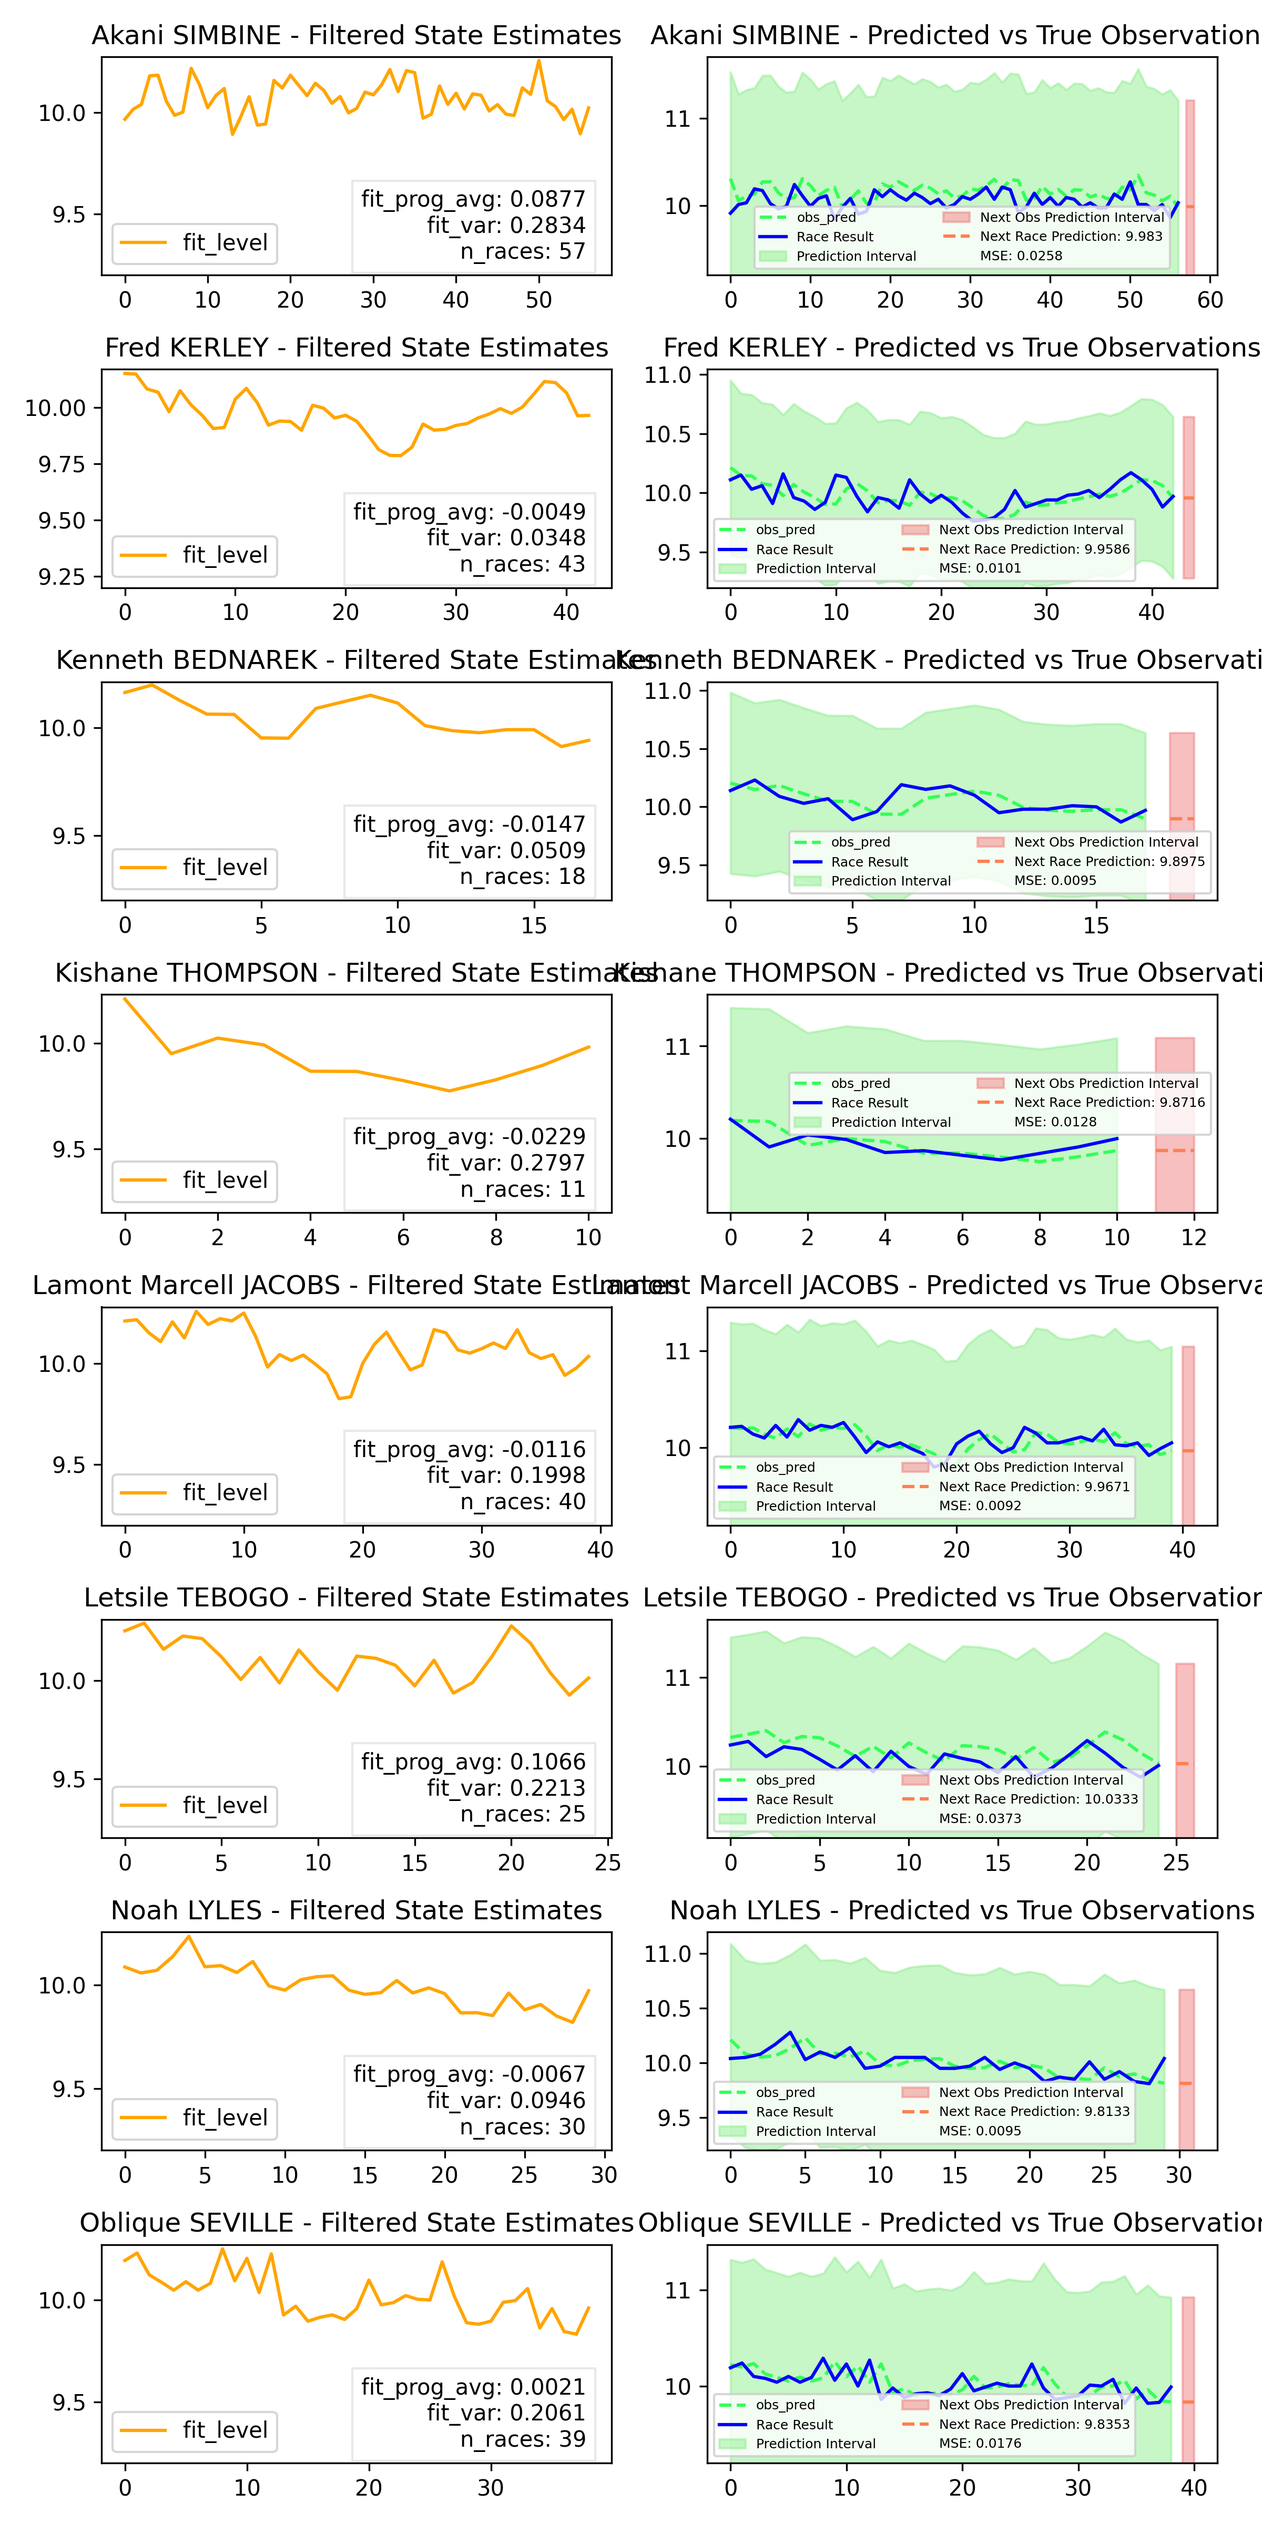
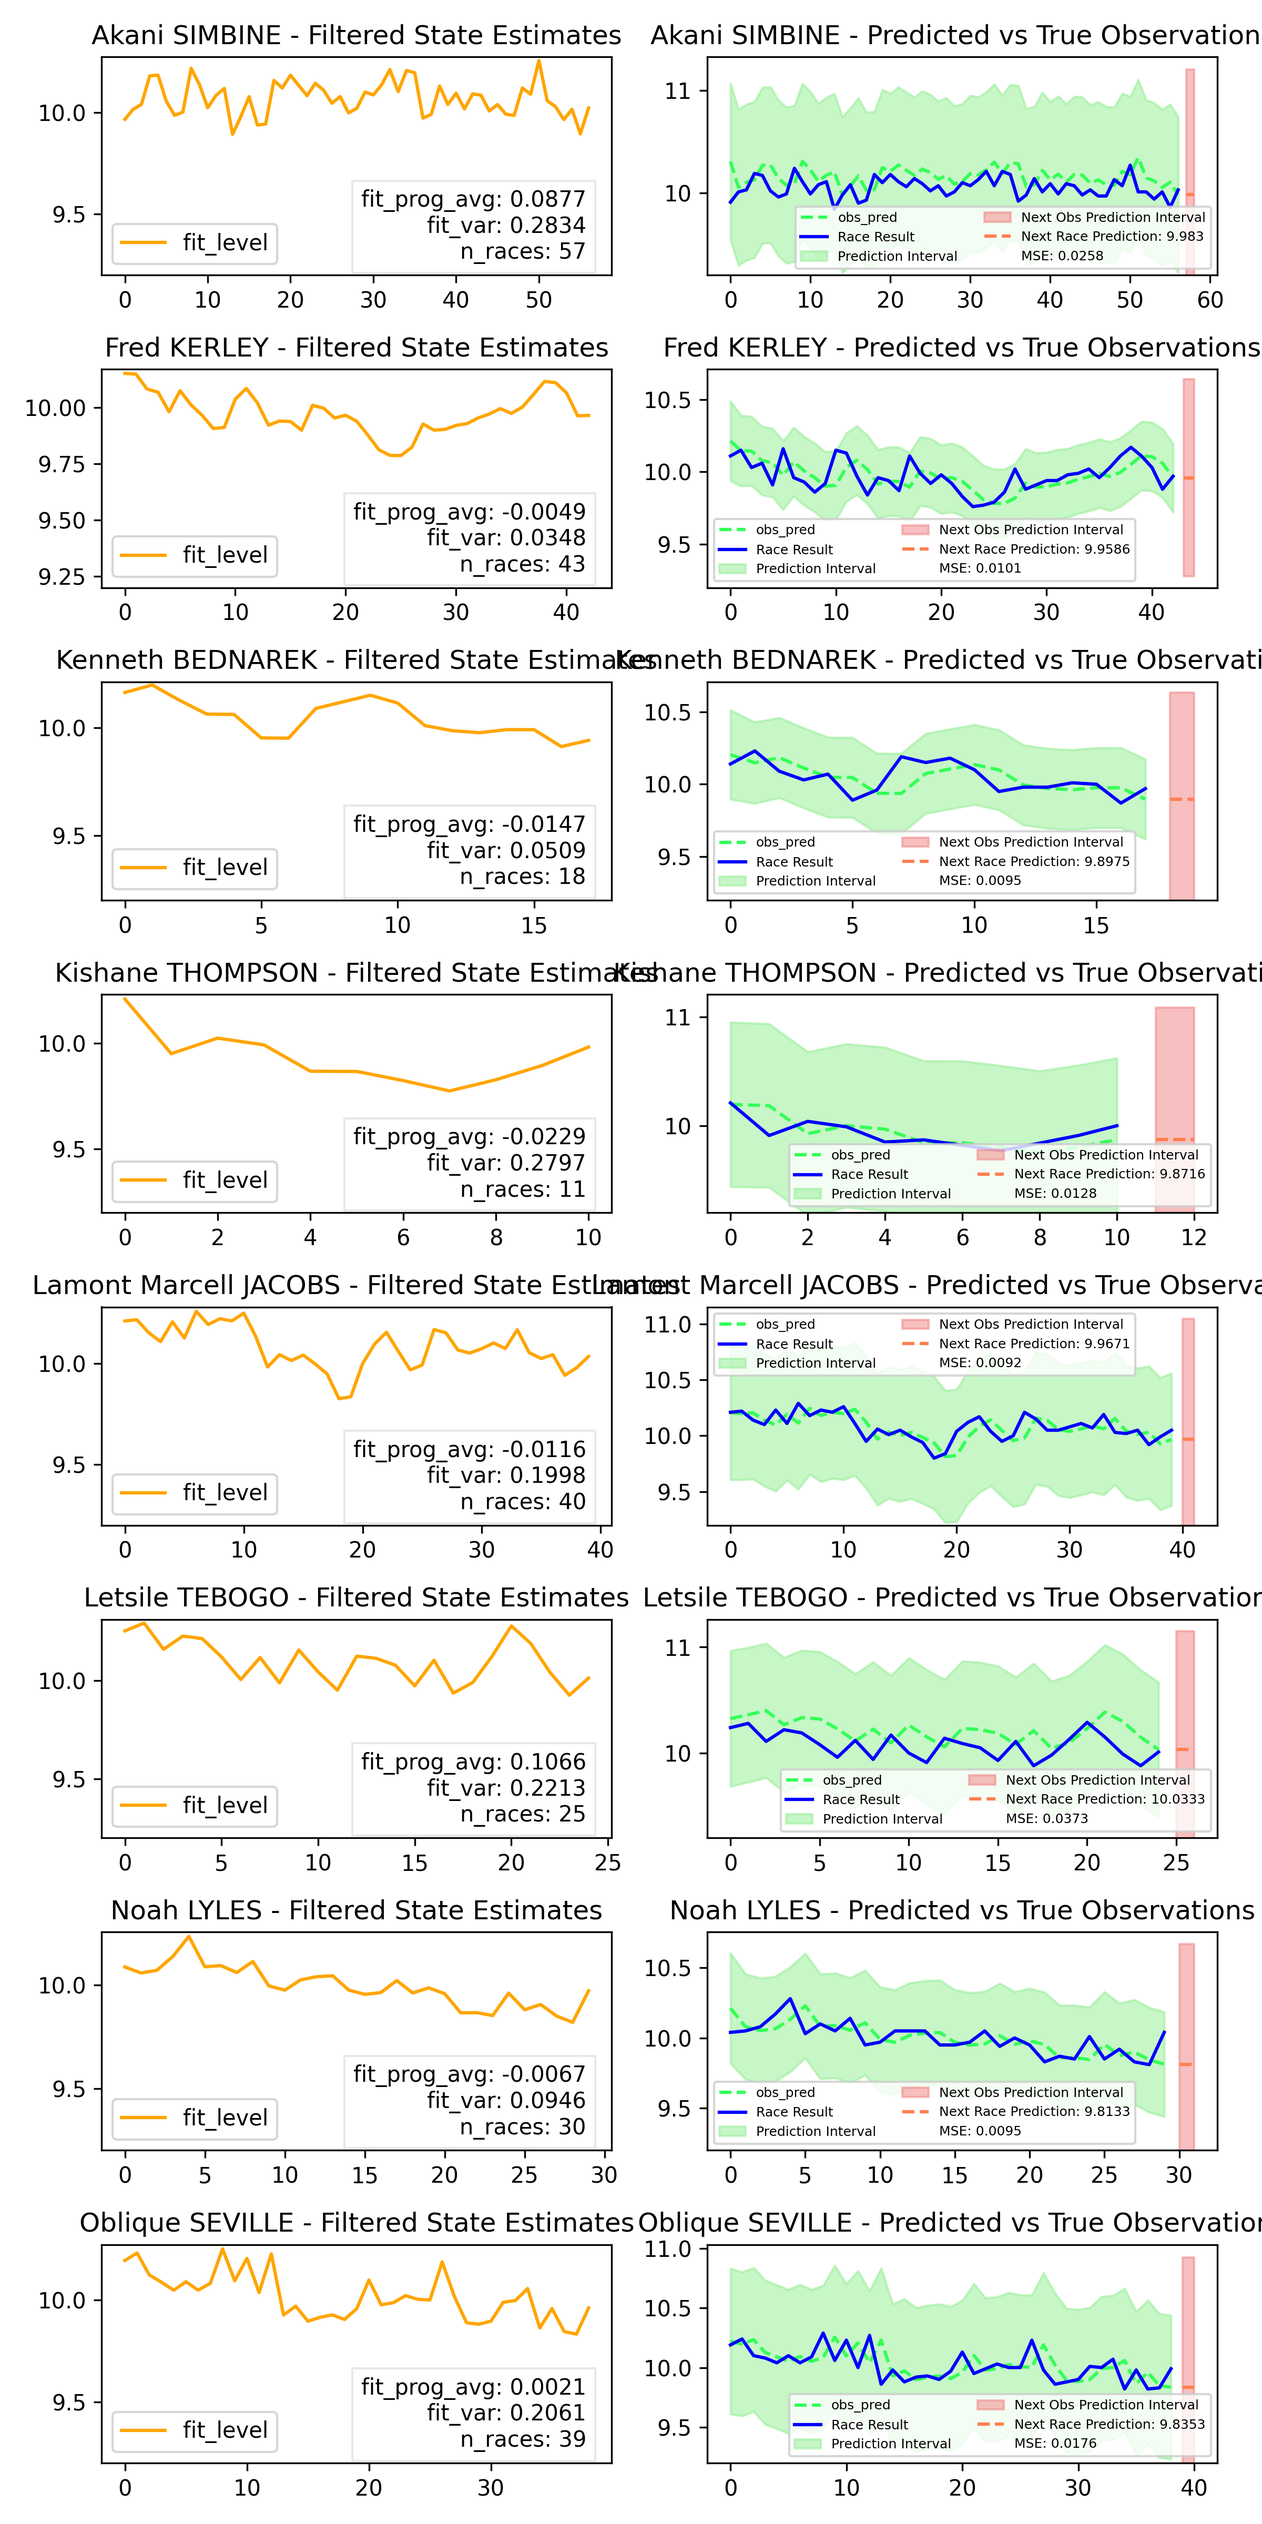
patch for parameter glitch and new associated plots. First m3

diff --git a/run_m3.py b/run_m3.py
@@ -1,0 +1,126 @@
+
+import pandas as pd
+import numpy as np
+pd.set_option('display.max_columns', None)
+from datetime import datetime
+import tensorflow as tf
+import tensorflow_probability as tfp
+tfd = tfp.distributions
+import matplotlib.pyplot as plt
+from optimize_transmission_noise import *
+from plot_tfp_kalman_s import *
+from build_ssm import *
+from putils import *
+from add_wind_mark import *
+
+# from cmdstanpy import install_cmdstan
+# install_cmdstan(overwrite=True)
+
+from cmdstanpy import CmdStanModel
+
+
+
+df_raw = pd.read_csv('men 100m from_2020-01-01 to_2024-09-30.csv')
+
+def convert_dates(date):
+    try:
+        return pd.to_datetime(date, format='%d %b %Y')
+    except ValueError:
+        return pd.to_datetime(date, format='%Y', errors='coerce')  
+      
+df_raw['DOB'] = df_raw['DOB'].apply(convert_dates)
+df_raw['Date'] = df_raw['Date'].apply(convert_dates)
+
+# Analysis      
+avg_std = df_raw.groupby(['Competitor', df_raw['Date'].dt.year])['Mark'].std().mean().round(4)
+mean_std = df_raw.groupby(['Competitor', df_raw['Date'].dt.year])['Mark'].mean().mean().round(4)      
+min_seas = df_raw.groupby(['Competitor', df_raw['Date'].dt.year])['Mark'].min()          
+max_seas = df_raw.groupby(['Competitor', df_raw['Date'].dt.year])['Mark'].max() 
+seas_improvements = max_seas - min_seas
+improvement_avg = (max_seas - min_seas).mean().round(4)  
+improvement_avg = df_raw.groupby(['Competitor'])['Mark'].diff().mean()
+      
+
+# Only interested in the line-up of the 2024 olympics race
+competitors = ['Noah LYLES', 'Kishane THOMPSON', 'Fred KERLEY', 
+              'Akani SIMBINE', 'Oblique SEVILLE', 
+              'Lamont Marcell JACOBS', 'Letsile TEBOGO', 'Kenneth BEDNAREK']
+date_max = pd.to_datetime('2024-08-03')
+
+df_spec = df_raw[df_raw['Date'] <= date_max]
+df_spec = df_spec[df_spec['Competitor'].isin(competitors)]
+
+df_spec = add_wind_mark(df_spec)
+
+def df_by_athlete(data):
+  data_sorted = data.sort_values(by=['Competitor', 'Date'])
+  competitor_dfs = {name: group for name, group in data_sorted.groupby('Competitor')}
+  return(competitor_dfs)
+  
+personal_df_list = df_by_athlete(df_spec)
+
+obs_true = np.array(personal_df_list['Letsile TEBOGO']['Mark_wm'])[:, np.newaxis]
+
+# Initialize data
+np.random.seed(43)
+N = len(obs_true)  # Number of time steps
+T = 1    # Number of competitors (if multiple, modify the model accordingly)
+obs_sigma = float(avg_std) # Observation noise
+y = obs_true.flatten()  # Observations
+mu_0 = float(mean_std)
+sigma_0 = 0.05
+
+# Prepare data for Stan
+stan_data = {
+    "N": N,                      # Number of time steps
+    "T": T,                      # Number of competitors
+    "y": y.tolist(),             # Observations
+    "obs_sigma": obs_sigma,      # Observation noise
+    "mu_0": mu_0,   # initial time point
+    "sigma_0": sigma_0,  # std of start point
+}
+
+stan_model_file = "kalman_rep.stan"
+model = CmdStanModel(stan_file=stan_model_file)
+
+# Fit the model
+fit = model.sample(data=stan_data, chains=4, iter_sampling=1500, iter_warmup=500)
+print(fit.summary())
+
+# Extract latent states
+latent_state_samples = fit.stan_variable("latent_state")
+
+# Calculate posterior mean and credible intervals
+s_mu_samples = fit.stan_variable("s_mu")
+filtered_s_mu = np.mean(latent_state_samples, axis=0)
+s_cov = np.mean(fit.stan_variable("s_cov"))
+one_step_ahead_samples = latent_state_samples[:, :-1] + s_mu
+# obs_prediction = np.mean(one_step_ahead_samples, axis=0)
+num_samples, N = latent_state_samples.shape
+t1_samples = np.random.normal(mu_0 + s_mu_samples, sigma_0, size=num_samples)
+lagged_samples = latent_state_samples[:, :-1] 
+one_step_ahead_samples = lagged_samples + s_mu_samples[:, None] 
+all_one_step_ahead_samples = np.hstack([t1_samples[:, None], one_step_ahead_samples]) 
+# Step 2: Compute posterior mean and credible intervals
+posterior_mean = np.mean(all_one_step_ahead_samples, axis=0)  # Shape: [N]
+lower_credible = np.percentile(all_one_step_ahead_samples, 2.5, axis=0)  # Shape: [N]
+upper_credible = np.percentile(all_one_step_ahead_samples, 97.5, axis=0)  # Shape: [N]
+
+filtered_covs = np.var(one_step_ahead_samples, axis=0)
+
+# Create a figure with side-by-side plots
+fig, ax = plt.subplots(1, 2, figsize=(12, 6))  # 1 row, 2 columns
+
+# Call your plotting function with the processed data
+plot_single_stan_outcome(
+    sequences=None,
+    ax=ax,
+    lower_credible = lower_credible, 
+    upper_credible = upper_credible,
+    obs_true=y,  # Observed data (replace with actual observed data array)
+    filtered_means=filtered_s_mu,
+    observation_means=posterior_mean,
+)
+
+plt.tight_layout()
+plt.show()

diff --git a/run_m1.py b/run_m1.py
@@ -1,0 +1,103 @@
+# Run Model 1
+
+import pandas as pd
+import numpy as np
+pd.set_option('display.max_columns', None)
+from datetime import datetime
+import tensorflow as tf
+import tensorflow_probability as tfp
+tfd = tfp.distributions
+import matplotlib.pyplot as plt
+from optimize_transmission_noise import *
+from plot_tfp_kalman_s import *
+from build_ssm import *
+from putils import *
+from add_wind_mark import *
+
+
+df_raw = pd.read_csv('men 100m from_2020-01-01 to_2024-09-30.csv')
+
+def convert_dates(date):
+    try:
+        return pd.to_datetime(date, format='%d %b %Y')
+    except ValueError:
+        return pd.to_datetime(date, format='%Y', errors='coerce')  
+      
+df_raw['DOB'] = df_raw['DOB'].apply(convert_dates)
+df_raw['Date'] = df_raw['Date'].apply(convert_dates)
+
+# Analysis      
+avg_std = df_raw.groupby(['Competitor', df_raw['Date'].dt.year])['Mark'].std().mean().round(4)
+mean_std = df_raw.groupby(['Competitor', df_raw['Date'].dt.year])['Mark'].mean().mean().round(4)      
+min_seas = df_raw.groupby(['Competitor', df_raw['Date'].dt.year])['Mark'].min()          
+max_seas = df_raw.groupby(['Competitor', df_raw['Date'].dt.year])['Mark'].max() 
+seas_improvements = max_seas - min_seas
+improvement_avg = (max_seas - min_seas).mean().round(4)  
+improvement_avg = df_raw.groupby(['Competitor'])['Mark'].diff().mean()
+      
+
+# Only interested in the line-up of the 2024 olympics race
+competitors = ['Noah LYLES', 'Kishane THOMPSON', 'Fred KERLEY', 
+              'Akani SIMBINE', 'Oblique SEVILLE', 
+              'Lamont Marcell JACOBS', 'Letsile TEBOGO', 'Kenneth BEDNAREK']
+date_max = pd.to_datetime('2024-08-03')
+
+df_spec = df_raw[df_raw['Date'] <= date_max]
+df_spec = df_spec[df_spec['Competitor'].isin(competitors)]
+
+df_spec = add_wind_mark(df_spec)
+
+def df_by_athlete(data):
+  data_sorted = data.sort_values(by=['Competitor', 'Date'])
+  competitor_dfs = {name: group for name, group in data_sorted.groupby('Competitor')}
+  return(competitor_dfs)
+  
+personal_df_list = df_by_athlete(df_spec)
+
+# Default Parameters
+params = {
+    'obs_coeff': 1.00,
+    's_mu': -float(improvement_avg),
+    # 's_mu': 0.00,
+    's_cov': 0.125997,
+    'init_s_mu': float(mean_std),
+    'init_s_cov': 0.05,
+    'obs_mu': 0.00,
+    'obs_cov': float(avg_std) 
+}
+
+results = {}
+
+# Assuming `personal_df_list` is a dictionary with competitors' data
+num_competitors = len(personal_df_list)
+num_rows = num_competitors
+num_cols = 2  # 8 competitors, so we will have 8 columns
+
+# Create a figure with a 2x8 grid of subplots
+fig, ax = plt.subplots(num_rows, num_cols, figsize=(8, 16), dpi=300)  # 2 columns, 8 rows
+
+for i, competitor in enumerate(personal_df_list):
+    n_steps = personal_df_list[competitor].shape[0]
+    model = build_tfp_lg_ssm(params=params, num_timesteps=n_steps)
+    obs_true = np.array(personal_df_list[competitor]['Mark'])[:, np.newaxis]
+    # obs_alter = np.array(personal_df_list[competitor]['Mark'])[:, np.newaxis]
+    
+    # Make a tensorflow dataset
+    X_train = tf.data.Dataset.from_tensors(obs_true)
+    x = next(iter(X_train.batch(batch_size=100).map(lambda x: tf.cast(x, dtype=tf.float32))))[0]
+    print(f"{competitor}: {x.shape}")
+    opt_params = optimize_transmission_noise(x = x, params = params, ssm = forward_filter_lgssm_mv)
+    
+    L, filtered_means, filtered_covs, predicted_means, predicted_covs, observation_means, observation_covs = \
+    forward_filter_lgssm_mv( x, opt_params)
+    
+    ax_row = ax[i, :]
+
+    # plot_tfp_kalman_s2(ax[i, :], obs_true, obs_alter, filtered_means, observation_means, observation_covs, 
+    #                   opt_params, competitor, n_steps=n_steps)
+    plot_tfp_kalman_s(ax[i, :], obs_true,  filtered_means, observation_means, observation_covs, 
+                  opt_params, competitor, n_steps=n_steps)
+
+plt.tight_layout()
+plt.savefig('competitor_kalman_plots_1.png')  # Save the combined plot
+plt.show()

diff --git a/run_m2.py b/run_m2.py
@@ -1,0 +1,103 @@
+# Run Model 2
+
+# Run Model 1
+
+import pandas as pd
+import numpy as np
+pd.set_option('display.max_columns', None)
+from datetime import datetime
+import tensorflow as tf
+import tensorflow_probability as tfp
+tfd = tfp.distributions
+import matplotlib.pyplot as plt
+from optimize_transmission_noise import *
+from plot_tfp_kalman_s import *
+from build_ssm import *
+from putils import *
+from add_wind_mark import *
+
+
+df_raw = pd.read_csv('men 100m from_2020-01-01 to_2024-09-30.csv')
+
+def convert_dates(date):
+    try:
+        return pd.to_datetime(date, format='%d %b %Y')
+    except ValueError:
+        return pd.to_datetime(date, format='%Y', errors='coerce')  
+      
+df_raw['DOB'] = df_raw['DOB'].apply(convert_dates)
+df_raw['Date'] = df_raw['Date'].apply(convert_dates)
+
+# Analysis      
+avg_std = df_raw.groupby(['Competitor', df_raw['Date'].dt.year])['Mark'].std().mean().round(4)
+mean_std = df_raw.groupby(['Competitor', df_raw['Date'].dt.year])['Mark'].mean().mean().round(4)      
+min_seas = df_raw.groupby(['Competitor', df_raw['Date'].dt.year])['Mark'].min()          
+max_seas = df_raw.groupby(['Competitor', df_raw['Date'].dt.year])['Mark'].max() 
+seas_improvements = max_seas - min_seas
+improvement_avg = (max_seas - min_seas).mean().round(4)  
+improvement_avg = df_raw.groupby(['Competitor'])['Mark'].diff().mean()
+      
+
+# Only interested in the line-up of the 2024 olympics race
+competitors = ['Noah LYLES', 'Kishane THOMPSON', 'Fred KERLEY', 
+              'Akani SIMBINE', 'Oblique SEVILLE', 
+              'Lamont Marcell JACOBS', 'Letsile TEBOGO', 'Kenneth BEDNAREK']
+date_max = pd.to_datetime('2024-08-03')
+
+df_spec = df_raw[df_raw['Date'] <= date_max]
+df_spec = df_spec[df_spec['Competitor'].isin(competitors)]
+
+df_spec = add_wind_mark(df_spec)
+
+def df_by_athlete(data):
+  data_sorted = data.sort_values(by=['Competitor', 'Date'])
+  competitor_dfs = {name: group for name, group in data_sorted.groupby('Competitor')}
+  return(competitor_dfs)
+  
+personal_df_list = df_by_athlete(df_spec)
+
+# Default Parameters
+params = {
+    'obs_coeff': 1.00,
+    's_mu': -float(improvement_avg),
+    # 's_mu': 0.00,
+    's_cov': 0.125997,
+    'init_s_mu': float(mean_std),
+    'init_s_cov': 0.05,
+    'obs_mu': 0.00,
+    'obs_cov': float(avg_std) 
+}
+
+results = {}
+
+# Assuming `personal_df_list` is a dictionary with competitors' data
+num_competitors = len(personal_df_list)
+num_rows = num_competitors
+num_cols = 2  # 8 competitors, so we will have 8 columns
+
+# Create a figure with a 2x8 grid of subplots
+fig, ax = plt.subplots(num_rows, num_cols, figsize=(8, 16), dpi=300)  # 2 columns, 8 rows
+
+for i, competitor in enumerate(personal_df_list):
+    n_steps = personal_df_list[competitor].shape[0]
+    model = build_tfp_lg_ssm(params=params, num_timesteps=n_steps)
+    obs_true = np.array(personal_df_list[competitor]['Mark_wm'])[:, np.newaxis]
+    obs_alter = np.array(personal_df_list[competitor]['Mark'])[:, np.newaxis]
+    
+    # Make a tensorflow dataset
+    X_train = tf.data.Dataset.from_tensors(obs_true)
+    x = next(iter(X_train.batch(batch_size=100).map(lambda x: tf.cast(x, dtype=tf.float32))))[0]
+    print(f"{competitor}: {x.shape}")
+    opt_params = optimize_transmission_noise(x = x, params = params, ssm = forward_filter_lgssm_mv)
+    
+    L, filtered_means, filtered_covs, predicted_means, predicted_covs, observation_means, observation_covs = \
+    forward_filter_lgssm_mv( x, opt_params)
+    
+    ax_row = ax[i, :]
+
+    plot_tfp_kalman_s2(ax[i, :], obs_true, obs_alter, filtered_means, observation_means, observation_covs, 
+                      opt_params, competitor, n_steps=n_steps)
+
+plt.tight_layout()
+plt.savefig('competitor_kalman_plots_2.png')  # Save the combined plot
+plt.show()

diff --git a/plot_tfp_kalman_s.py b/plot_tfp_kalman_s.py
@@ -13,8 +13,8 @@ def plot_tfp_kalman_s(ax_row, obs_true, filtered_means, observation_means, obser
     x_axis = np.arange(len(filtered_means))
 
     # Calculate prediction intervals for existing observations
-    lower_bound = observation_means.numpy().flatten() - 1.96 * np.sqrt(observation_covs.numpy().flatten())
-    upper_bound = observation_means.numpy().flatten() + 1.96 * np.sqrt(observation_covs.numpy().flatten())
+    lower_bound = observation_means.numpy().flatten() - 1.96 * (observation_covs.numpy().flatten())
+    upper_bound = observation_means.numpy().flatten() + 1.96 * (observation_covs.numpy().flatten())
 
     # Calculate MSE
     mse = np.mean(np.square(obs_true.flatten() - observation_means.numpy().flatten()))
@@ -78,6 +78,7 @@ def plot_tfp_kalman_s(ax_row, obs_true, filtered_means, observation_means, obser
     ax_row[1].set_title(f'{competitor} - Predicted vs True Observations')
     ax_row[1].set_ylim(bottom=9.2)  # Ensure y-axis is the same for comparison
     
+    
 def plot_tfp_kalman_s2(ax_row, obs_true, obs_alter, filtered_means, observation_means, observation_covs, 
                       params, competitor, n_steps):
     filtered_means = tf.squeeze(filtered_means, axis = -1)
@@ -88,8 +89,8 @@ def plot_tfp_kalman_s2(ax_row, obs_true, obs_alter, filtered_means, observation_
     x_axis = np.arange(len(filtered_means))
 
     # Calculate prediction intervals for existing observations
-    lower_bound = observation_means.numpy().flatten() - 1.96 * np.sqrt(observation_covs.numpy().flatten())
-    upper_bound = observation_means.numpy().flatten() + 1.96 * np.sqrt(observation_covs.numpy().flatten())
+    lower_bound = observation_means.numpy().flatten() - 1.96 * (observation_covs.numpy().flatten())
+    upper_bound = observation_means.numpy().flatten() + 1.96 * (observation_covs.numpy().flatten())
 
     # Calculate MSE
     mse = np.mean(np.square(obs_true.flatten() - observation_means.numpy().flatten()))
@@ -126,7 +127,7 @@ def plot_tfp_kalman_s2(ax_row, obs_true, obs_alter, filtered_means, observation_
     predicted_next_mean = last_filtered_mean * params.get('obs_coeff', 1) + params.get('obs_mu', 0)
 
     # Calculate the standard deviation for prediction interval
-    predicted_next_std = np.sqrt(last_filtered_cov * params.get('obs_coeff', 1)**2)
+    predicted_next_std = (last_filtered_cov * params.get('obs_coeff', 1)**2)
 
     # Calculate prediction interval bounds for the next observation
     lower_bound_next = (predicted_next_mean - 1.96 * predicted_next_std).flatten()
